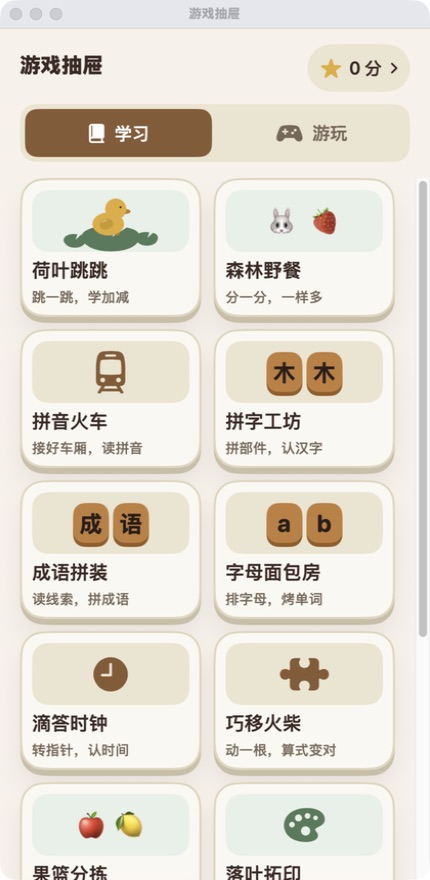
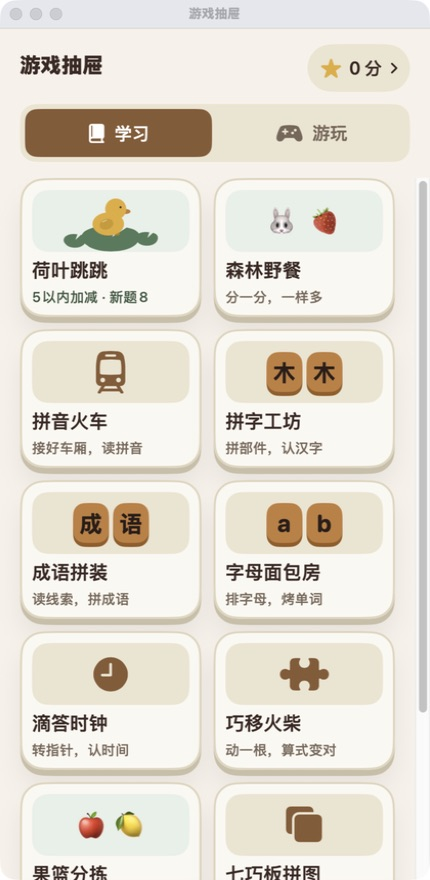
Remove leaf printing from the learning drawer while preserving saved artwork

Changed region(s): [[0.514, 0.8898, 0.786, 1.0], [0.0605, 0.3068, 0.3326, 0.3682], [0.9674, 0.7057, 0.9977, 0.8284]]

diff --git a/ios/LittleLearning/Sources/GameDrawerView.swift b/ios/LittleLearning/Sources/GameDrawerView.swift
@@ -64,7 +64,7 @@ struct GameDrawerView: View {
     private func learningGames(margin: CGFloat) -> some View {
         ScrollView {
             LazyVGrid(columns:[GridItem(.adaptive(minimum:150),spacing:12)],spacing:12) {
-                ForEach(LearningGame.allCases) { game in
+                ForEach(LearningGame.allCases.filter { $0 != .printing }) { game in
                     Button { store.open(game) } label: {
                         Tray(padding:12) {
                             VStack(alignment:.leading,spacing:6) {

diff --git a/README.md b/README.md
@@ -2,7 +2,7 @@
 
 给家里小朋友做的简体中文学习小游戏集合。SwiftUI 原生界面，离线使用，没有账号、广告、订阅或后端。
 
-13 款学习与创作游戏，39 个题组，878 个可玩挑战。首次完成关卡获得积分，重复做不重复计分；积分可以手动记录兑换礼物。
+12 款学习游戏，39 个题组，878 个可玩挑战。首次完成关卡获得积分，重复做不重复计分；积分可以手动记录兑换礼物。
 
 <p align="center">
   <img src="docs/screenshots/drawer.jpg" width="240" alt="学习游戏抽屉" />
@@ -25,7 +25,6 @@
 | 滴答时钟 | 认识时间、分秒与经过时间，121 题 |
 | 巧移火柴 | 移动一根火柴使等式成立，281 题 |
 | 果篮分拣 | 按水果类型整理，36 关，支持撤销 |
-| 落叶拓印 | 选材料、颜色、大小、旋转与力度，自由创作 |
 | 七巧板拼图 | 真正的七块木片，拖动、旋转与翻面，24 关 |
 | 小鸭送信 | 排前进、左转、右转指令，取信再送信，36 关 |
 | 规律串珠 | 找形状与颜色规律，补全珠子，60 关 |
@@ -39,7 +38,7 @@
 - 礼物兑换只需填写扣多少积分、换了什么，保留记录，并支持撤销一次。
 - 保留可选的趣味游戏时间接口：5 积分换 5 分钟、共用剩余时间、暂停／后台不计时；趣味游戏得分不变成学习积分。
 
-**公开仓库不包含私人版本使用的泡泡龙、合成大西瓜源码或素材。**这些上游项目的再分发授权未完整确认，因此克隆后「游玩」列表为空，13 款原生游戏可直接构建。接入自己有权使用的 HTML5 游戏，见 [可选游戏接入说明](ios/LittleLearning/Sources/WebGames/README.md)。本仓库的 MIT 授权不替代第三方游戏的授权。
+**公开仓库不包含私人版本使用的泡泡龙、合成大西瓜源码或素材。**这些上游项目的再分发授权未完整确认，因此克隆后「游玩」列表为空，12 款原生游戏可直接构建。接入自己有权使用的 HTML5 游戏，见 [可选游戏接入说明](ios/LittleLearning/Sources/WebGames/README.md)。本仓库的 MIT 授权不替代第三方游戏的授权。
 
 ## 在 iPhone 上运行
 
@@ -83,6 +82,8 @@ ios/LittleLearning/
 design/           设计 token 与生成脚本
 DESIGN.md         木质风格、布局和交互规范
 ```
+
+落叶拓印已从抽屉移除，旧作品数据仅保留作存档兼容，不再提供入口。
 
 所有记录保存在本机应用支持目录，不上传服务器。公开版使用独立 Bundle Identifier 和 `LittleLearning` 存档目录。删除 App／本机存档会丢失学习记录；目前没有云同步。
 

diff --git a/ios/LittleLearning/Sources/WebGames/README.md b/ios/LittleLearning/Sources/WebGames/README.md
@@ -34,4 +34,4 @@ The drawer lists a slot only when its local index.html exists. Xcode and the Mac
 
 Games must start paused and work offline. A local-only content security policy blocks external resources and navigation; paths are normalized before access. Never award learning points from JavaScript or in-game scores.
 
-With no optional bundles, the play list is intentionally empty. All 13 native learning/creative games work independently.
+With no optional bundles, the play list is intentionally empty. All 12 native learning games work independently.
